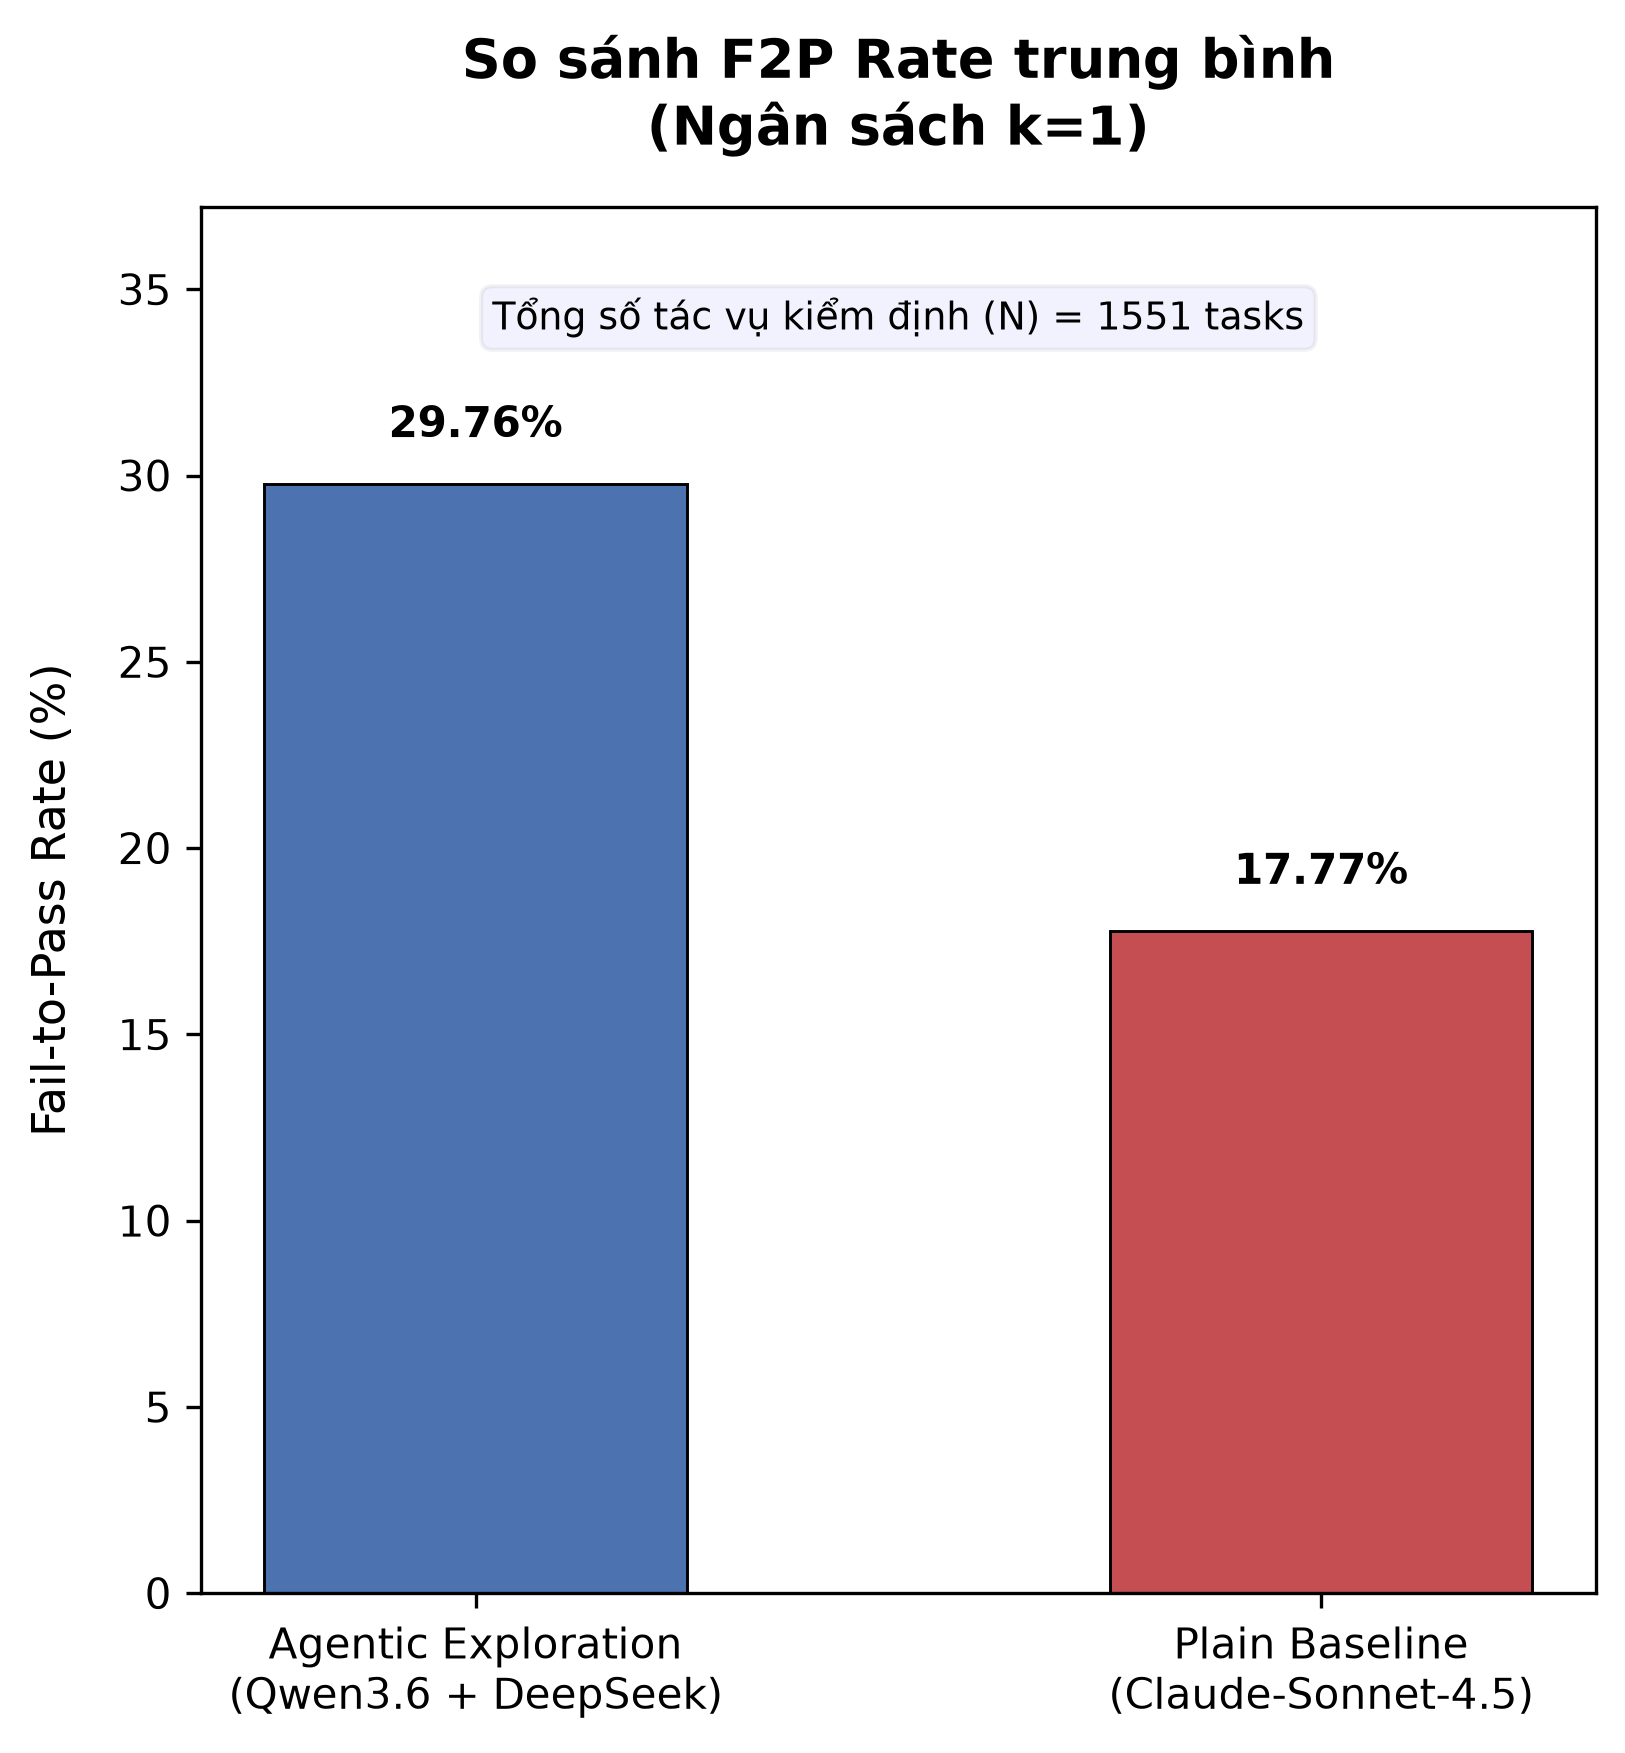
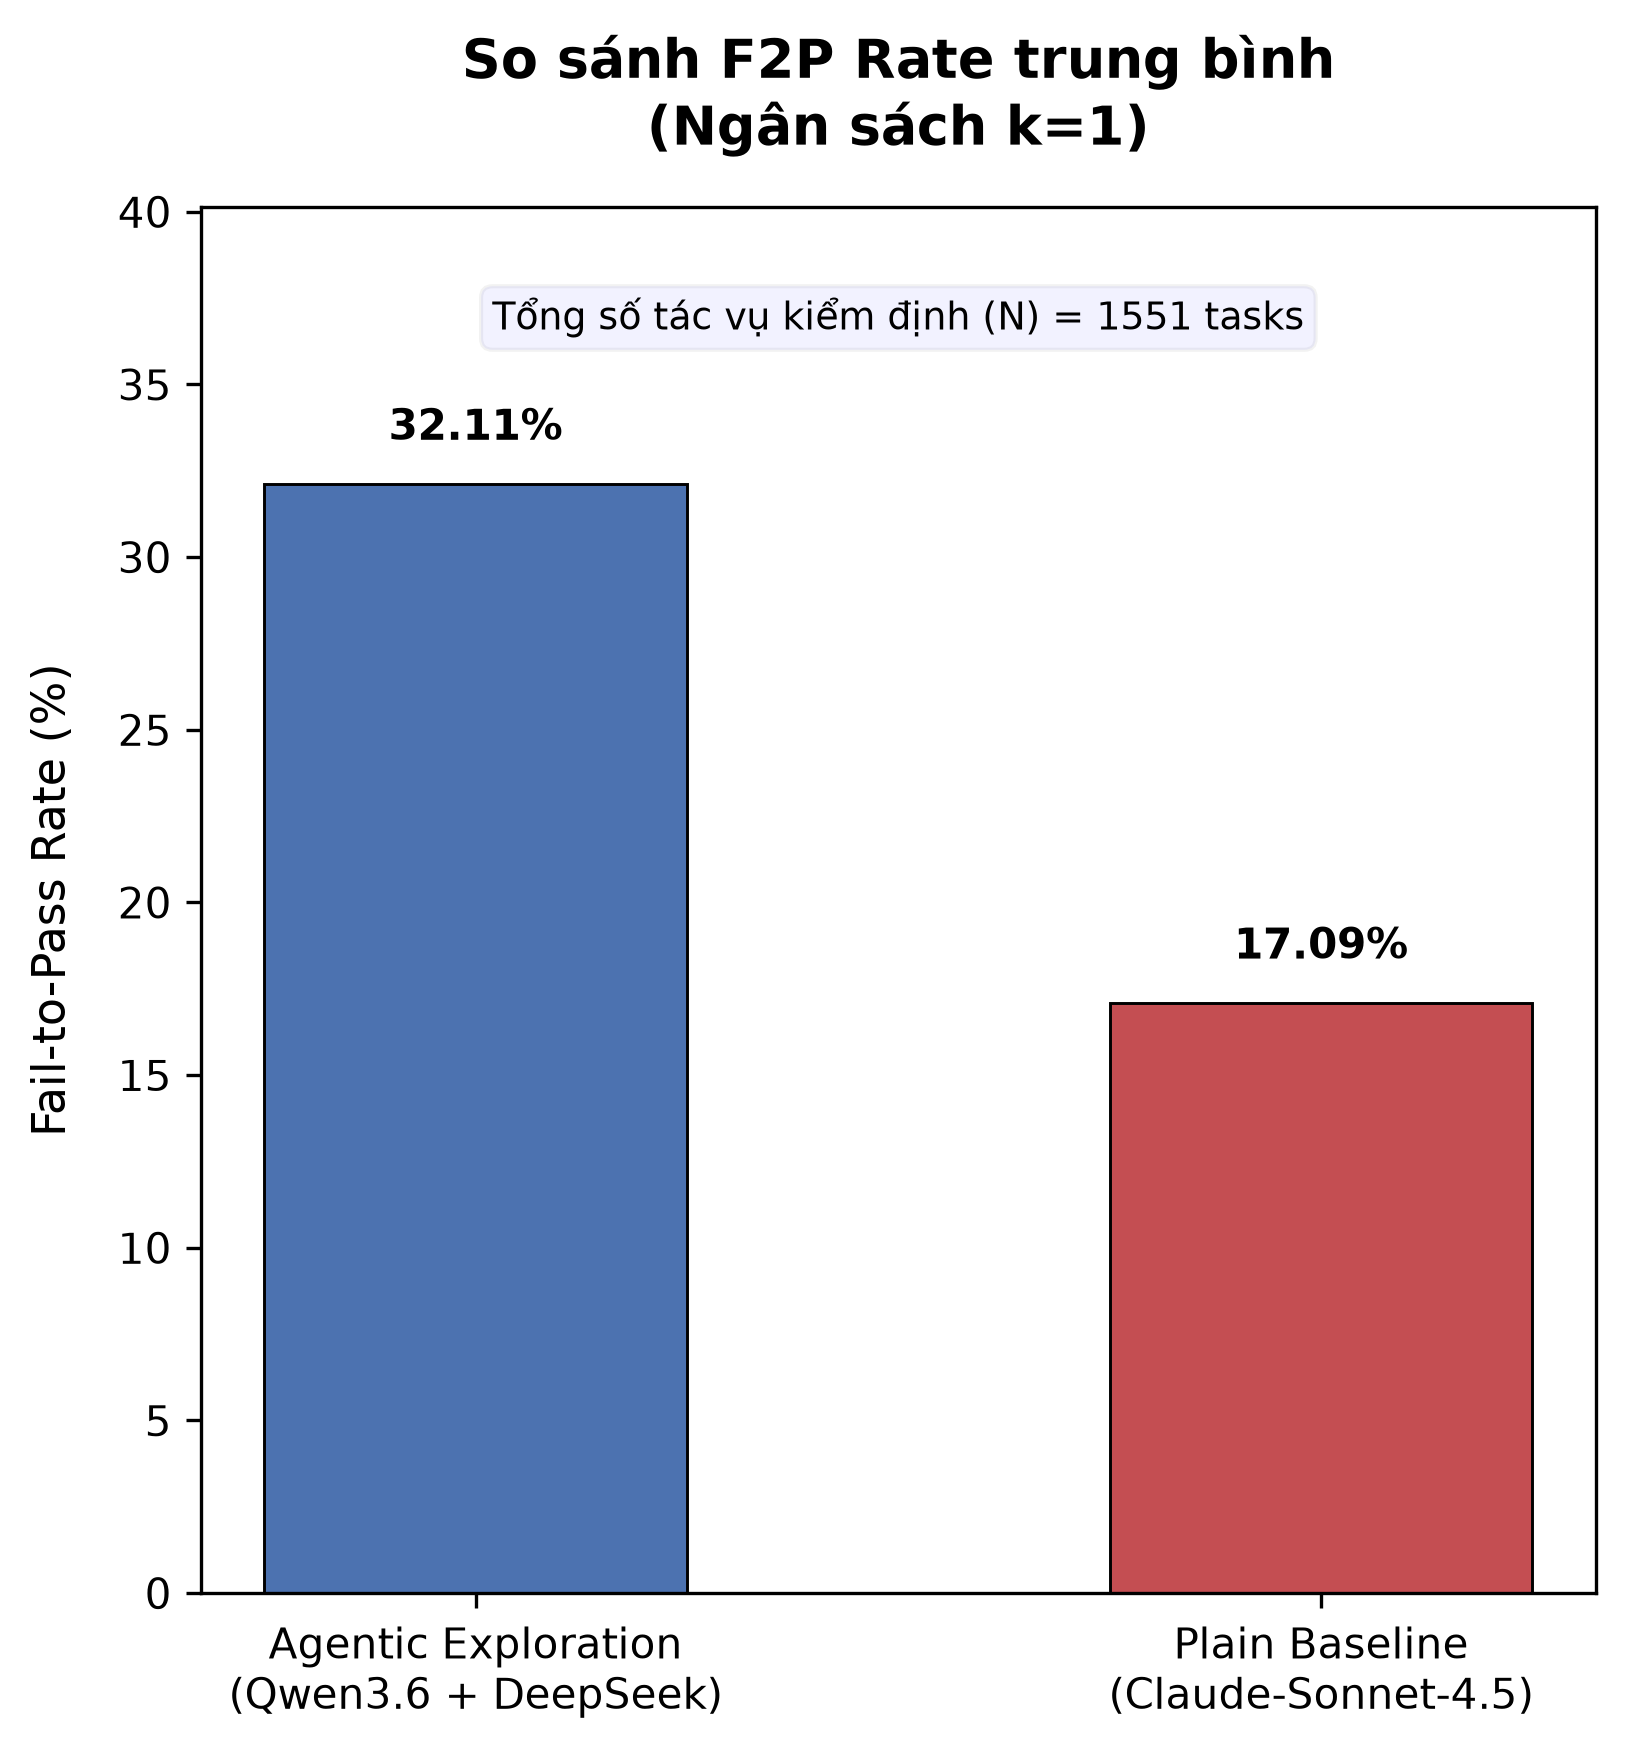
fix: update comparison plot to show task-level F2P rates matching the report

diff --git a/scripts/generate_figures.py b/scripts/generate_figures.py
@@ -108,8 +108,12 @@ else:
     print(f"✅ Đã tạo biểu đồ phân phối: {fig1_path} (Độ phân giải 300 DPI)")
     
     # ==================== FIGURE 2: COMPARISON PLOT ====================
-    avg_agent = df_repo_agent['f2p'].mean()
-    avg_base = df_repo_base['f2p'].mean()
+    # Tính toán F2P trực tiếp trên toàn bộ cấp độ tác vụ (Micro-average) để khớp chính xác với báo cáo hệ thống
+    fails_agent = df_full[df_full['initial_state'] == 'fail']
+    avg_agent = (sum(fails_agent['final_state'] == 'pass') / len(fails_agent)) * 100 if len(fails_agent) > 0 else 0.0
+    
+    fails_base = df_baseline[df_baseline['initial_state'] == 'fail']
+    avg_base = (sum(fails_base['final_state'] == 'pass') / len(fails_base)) * 100 if len(fails_base) > 0 else 0.0
     
     plt.figure(figsize=(6, 6))
     colors = ['#4c72b0', '#c44e52']